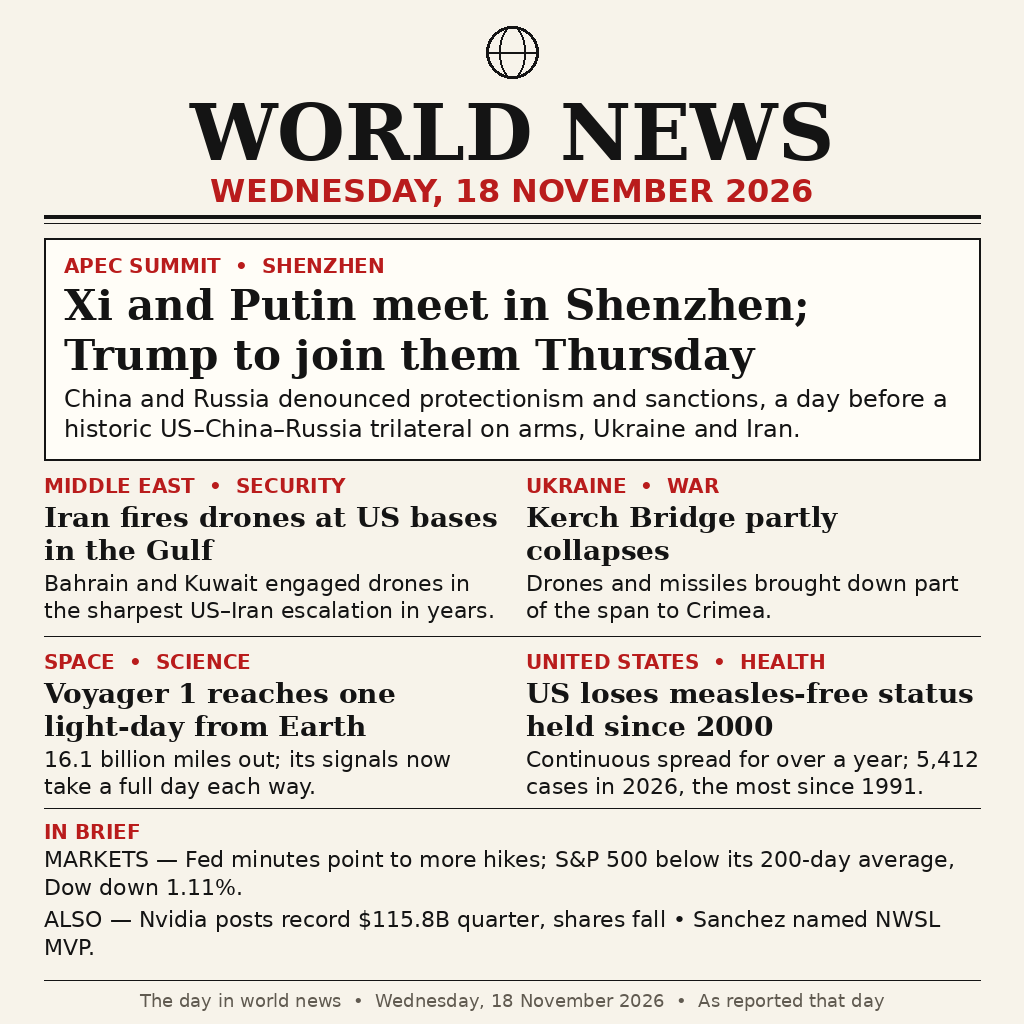
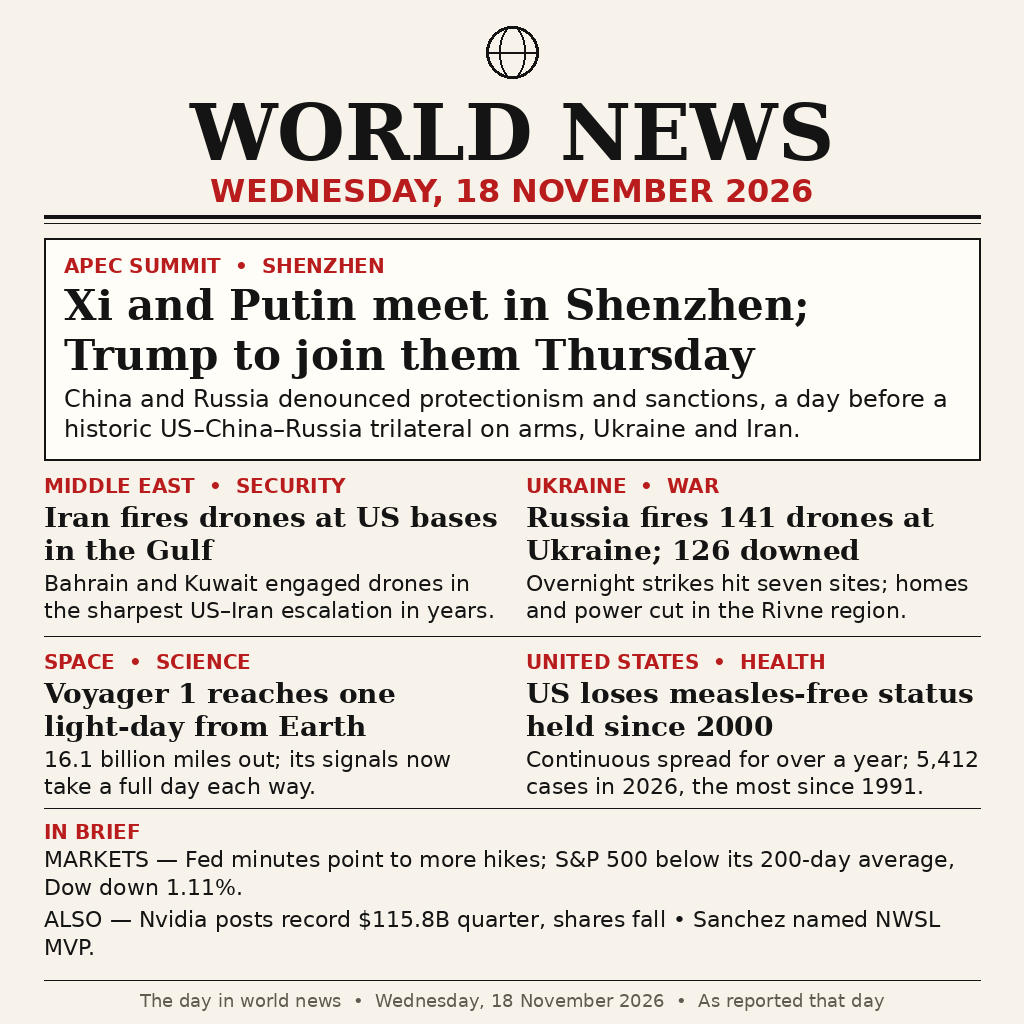
Fix: replace Kerch Bridge (17 Nov) with Russia 141-drone attack (18 Nov)

Changed region(s): [[0.5, 0.5, 0.9375, 0.625]]

diff --git a/main.ts b/main.ts
@@ -3,7 +3,7 @@
 // The finished image lives beside this file as entry.png: a front page
 // dated Wednesday 18 November 2026, leading with Xi and Putin meeting
 // in Shenzhen ahead of the first-ever US-China-Russia trilateral, then
-// Iran's drones at US Gulf bases, the Kerch Bridge collapse, Voyager 1
+// Iran's drones at US Gulf bases, Russia's 141-drone attack on Ukraine, Voyager 1
 // reaching one light-day from Earth, the US losing measles-free status,
 // and the Fed minutes moving markets. It was drawn by draw.py in this
 // repository, so the picture is reproducible from source. This program's

diff --git a/draw.py b/draw.py
@@ -142,8 +142,8 @@ def main():
           "Bahrain and Kuwait engaged drones in the sharpest US\u2013Iran "
           "escalation in years."),
          ("UKRAINE  •  WAR",
-          "Kerch Bridge partly collapses",
-          "Drones and missiles brought down part of the span to Crimea.")],
+          "Russia fires 141 drones at Ukraine; 126 downed",
+          "Overnight strikes hit seven sites; homes and power cut in the Rivne region.")],
         [("SPACE  •  SCIENCE",
           "Voyager 1 reaches one light-day from Earth",
           "16.1 billion miles out; its signals now take a full day each way."),

diff --git a/README.md b/README.md
@@ -4,7 +4,7 @@
 [![rank](https://make.fun/badge/news-image-20261118/alfajri14092002-a11y/news-image-20261118/rank.svg)](https://make.fun/bounty/news-image-20261118/leaderboard?utm_source=github&utm_medium=readme&utm_campaign=news-image-20261118)
 [![reward](https://make.fun/badge/news-image-20261118/alfajri14092002-a11y/news-image-20261118/reward.svg)](https://make.fun/bounty/news-image-20261118?utm_source=github&utm_medium=readme&utm_campaign=news-image-20261118)
 
-One image summing up the world's news of Wednesday 18 November 2026: Xi and Putin meet in Shenzhen ahead of a historic three-way summit, Iran fires drones at US bases in the Gulf, the Kerch Bridge partly collapses, Voyager 1 reaches one light-day from Earth, the US loses measles-free status, and Fed minutes move markets.
+One image summing up the world's news of Wednesday 18 November 2026: Xi and Putin meet in Shenzhen ahead of a historic three-way summit, Iran fires drones at US bases in the Gulf, Russia fires 141 drones at Ukraine, Voyager 1 reaches one light-day from Earth, the US loses measles-free status, and Fed minutes move markets.
 
 ## Run it
 
